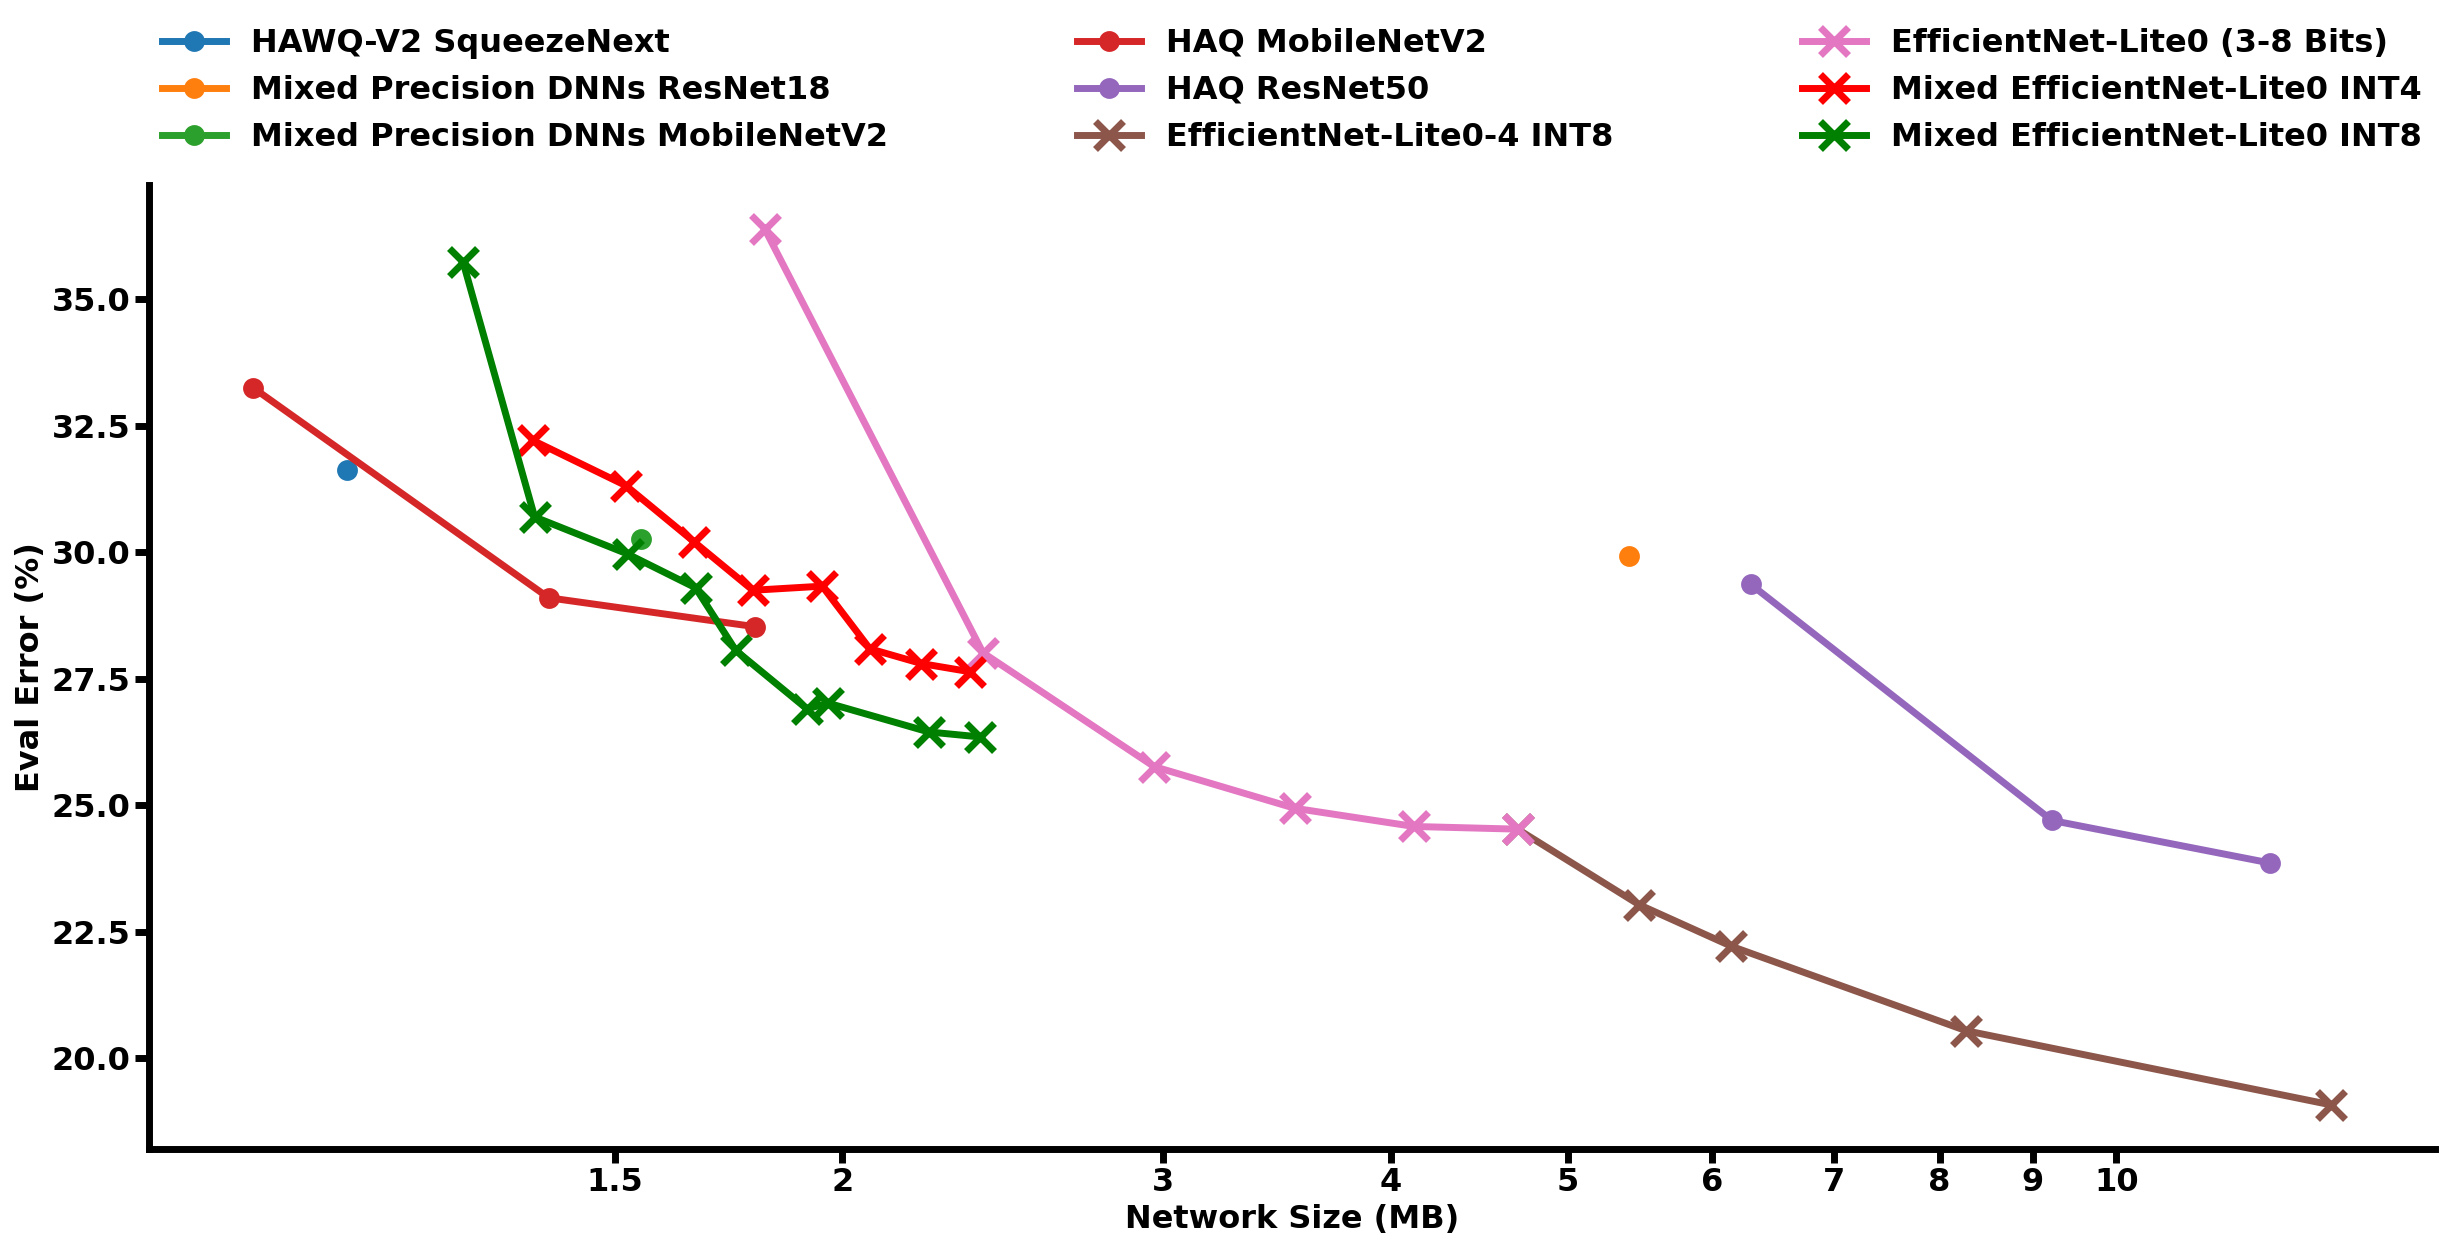
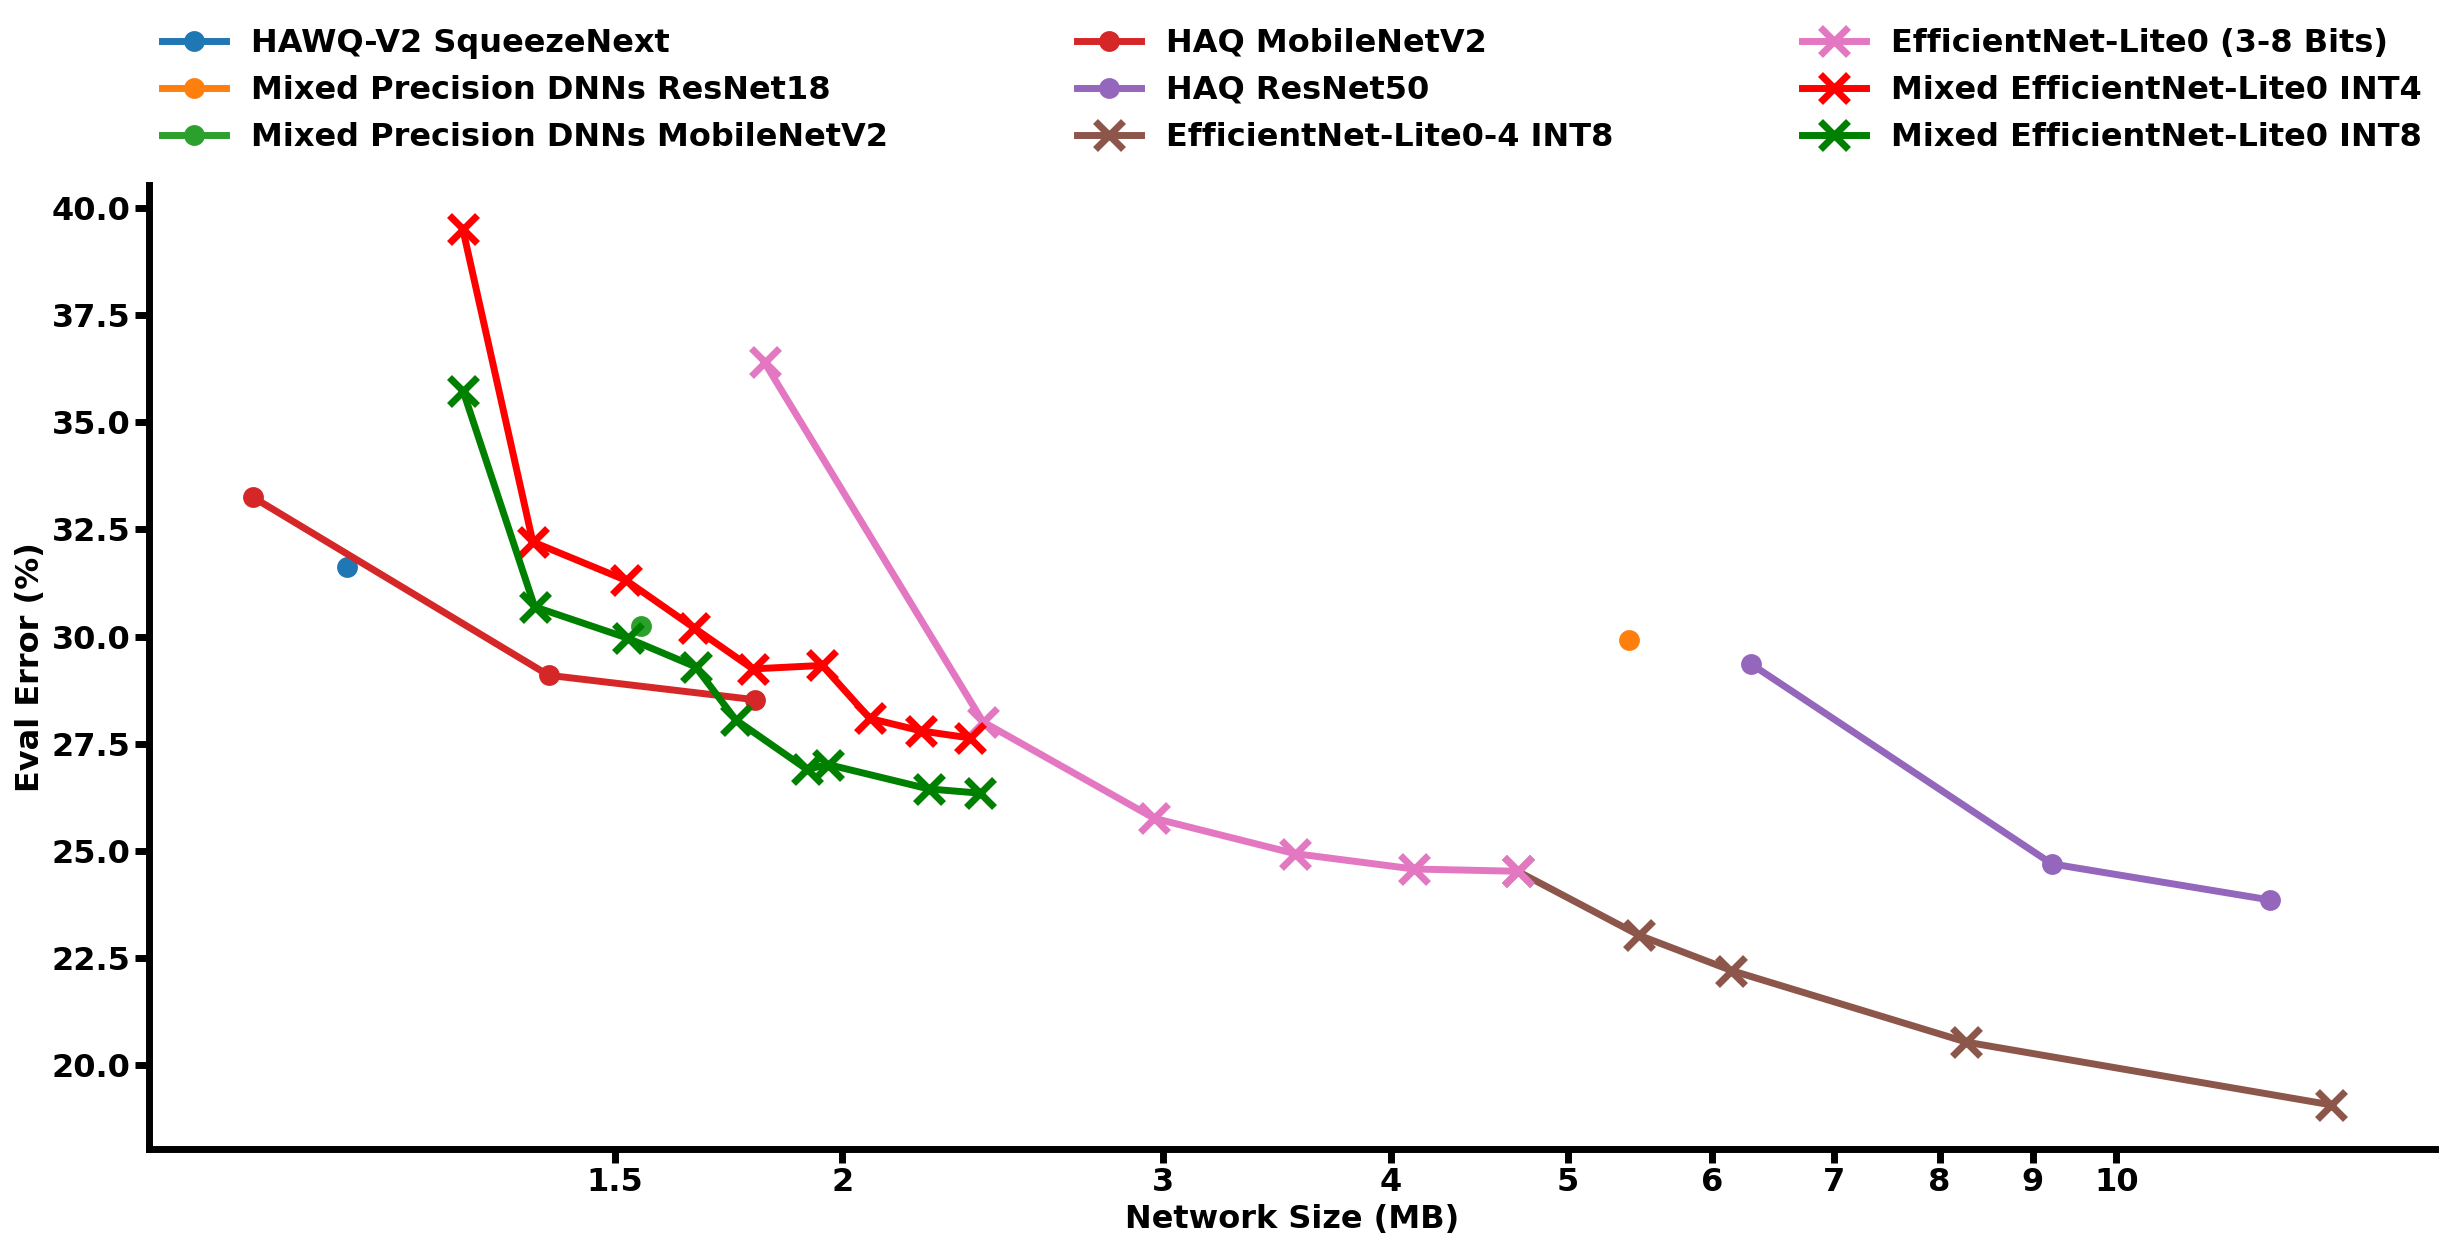
normal - figure one more obs

diff --git a/examples/efficientnet/visualization.py b/examples/efficientnet/visualization.py
@@ -529,12 +529,12 @@ def plot_comparison2(name):
           label='EfficientNet-Lite0 (3-8 Bits)', ms=20, markeredgewidth=5,
           linewidth=5)
 
-  xv = np.array([1268.692017, 1437.639038, 1574.033081, 1702.221069,
-                 1865.83606,
-                1986.667114, 2126.347412, 2267.265381]) / 1000 + 0.16806400 / 2
-  yv = 100 - np.array([0.6778971553, 0.6868489385, 0.6979166865, 0.7075195313,
-                      0.706705749, 0.719075501, 0.7220051885, 0.7236328125]
-                      ) * 100
+  xv = np.array([1153.9700927734375, 1268.692017, 1437.639038, 1574.033081,
+                1702.221069, 1865.83606, 1986.667114, 2126.347412,
+                2267.265381]) / 1000 + 0.16806400 / 2
+  yv = 100 - np.array([0.6048176884651184, 0.6778971553, 0.6868489385,
+                      0.6979166865, 0.7075195313, 0.706705749, 0.719075501,
+                      0.7220051885, 0.7236328125]) * 100
   ax.plot(xv, yv, marker='x', label="Mixed EfficientNet-Lite0 INT4",
           ms=20, markeredgewidth=5, linewidth=5, color='red')
 
